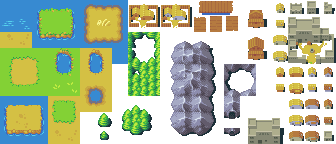
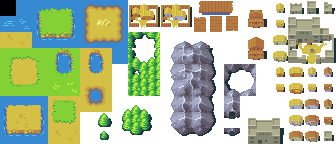
Add black tiles outside the map

Changed region(s): [[0.0, 0.0, 0.0595, 0.1111]]

diff --git a/src/map/Map.cpp b/src/map/Map.cpp
@@ -1,3 +1,5 @@
+#include <cstdio>
+#include "Interrupts.h"
 #include "Map.h"
 #include "render/TileRenderer.h"
 #include "Graphics.h"
@@ -37,58 +39,41 @@ void MAP::render(WalrusRPG::Camera &camera, unsigned dt)
     // By Eiyeron : I assumed that the camera's position is the top left pixel.
     // Margins moves the rendered map if we go outside of the bounds (specially on the
     // left or on the top).
-    signed offset_x = camera.get_x() % t_width * -1;
-    signed offset_y = camera.get_y() % t_height * -1;
-    signed start_x = camera.get_x() / t_width;
-    signed start_y = camera.get_y() / t_height;
-    signed end_x = start_x + 320 / t_width + 2; // Why 2? I don't freaking know.
-    signed end_y = start_y + 240 / t_height + 1;
-
-    // Bound-checking code. To avoid reading outside of the map.
-    // The offset edition allows the map to be correctly moved to the right to make up for
-    // the lack of renderable tiles.
-    if (start_x < 0)
-    {
-        offset_x -= start_x * t_width;
-        start_x = 0;
-    }
-
-    if (start_y < 0)
-    {
-        offset_y -= start_y * t_height;
-        start_y = 0;
-    }
-    // warning fix. Even if end_x/y is negative, it should be higher than width/height.
-    if ((unsigned) end_x > this->width)
-        end_x = this->width;
-    if ((unsigned) end_y > this->height)
-        end_y = this->height;
+    signed offset_x = camera.get_x() % t_width * -1 - (camera.get_x() < 0) * t_width;
+    signed offset_y = camera.get_y() % t_height * -1 - (camera.get_y() < 0) * t_height;
+    signed start_x = camera.get_x() / t_width - (camera.get_x() < 0);
+    signed start_y = camera.get_y() / t_height - (camera.get_y() < 0);
+    Interrupts::off();
+    printf("%i %i\n", start_x, start_y);
+    Interrupts::init();
 
     // pre-calculating variables to speed up loop condition check
-    signed delta_x = end_x - start_x;
-    signed delta_y = end_y - start_y;
-
-    // Creating a region clip. Why does it smell like SDL?
-    /*WalrusRPG::Graphics::Rect_t sprite;
-    sprite.y = 0;
-    sprite.w = 24;
-    sprite.h = 24;*/
+    signed delta_x = 320 / t_width + 1;
+    signed delta_y = 240 / t_height + 1;
 
     // rendering part.
     for (signed j = 0; j < delta_y; j++)
     {
         for (signed i = 0; i < delta_x; i++)
         {
-            unsigned index = (start_x + i) + (start_y + j) * this->width;
-            unsigned tile_over = anim.get_animation_frame(this->layer0[index]);
-            if (tile_over != 0)
-                renderer->render(tile_over,
-                                 Rect(offset_x + i * t_width, offset_y + j * t_height));
+            int index, tile_over;
+            index = (start_x + i) + (start_y + j) * this->width;
+            if (in_range(start_x + i, 0, (signed) width) &&
+                in_range(start_y + j, 0, (signed) height))
+                tile_over = anim.get_animation_frame(this->layer0[index]);
+            else
+                tile_over = 0;
+            renderer->render(tile_over,
+                             Rect(offset_x + i * t_width, offset_y + j * t_height));
 
             // layer1 : Over-layer
             if (this->layer1 == nullptr)
                 continue;
-            tile_over = anim.get_animation_frame(this->layer1[index]);
+            if (in_range(start_x + i, 0, (signed) width) &&
+                in_range(start_y + j, 0, (signed) height))
+                tile_over = anim.get_animation_frame(this->layer1[index]);
+            else
+                tile_over = 0;
             if (tile_over != 0)
                 renderer->render(anim.get_animation_frame(tile_over),
                                  Rect(offset_x + i * t_width, offset_y + j * t_height));
@@ -96,24 +81,24 @@ void MAP::render(WalrusRPG::Camera &camera, unsigned dt)
     }
 }
 
-bool MAP::is_tile_solid(unsigned x, unsigned y) const
+bool MAP::is_tile_solid(int x, int y) const
 {
     if (x >= width || y >= height)
         return true;
     return this->layer0[y * width + x] != 0;
 }
 
-bool MAP::is_pixel_solid(unsigned x, unsigned y) const
+bool MAP::is_pixel_solid(int x, int y) const
 {
     return is_tile_solid(x / renderer->get_tile_width(), y / renderer->get_tile_height());
 }
 
-unsigned MAP::get_width() const
+int MAP::get_width() const
 {
     return this->width;
 }
 
-unsigned MAP::get_height() const
+int MAP::get_height() const
 {
     return this->width;
 }

diff --git a/src/map/Map.h b/src/map/Map.h
@@ -16,8 +16,8 @@ namespace WalrusRPG
       protected:
         // <Tiles> data;
         // <Tileset> tileset;
-        unsigned int width;
-        unsigned int height;
+        int width;
+        int height;
         uint16_t *layer0;
         uint16_t *layer1;
         TileRenderer *renderer;
@@ -27,10 +27,10 @@ namespace WalrusRPG
         ~Map();
         void render(Camera &camera, unsigned dt);
         void update(unsigned dt);
-        bool is_tile_solid(unsigned x, unsigned y) const;
-        bool is_pixel_solid(unsigned x, unsigned y) const;
-        unsigned get_width() const;
-        unsigned get_height() const;
+        bool is_tile_solid(int x, int y) const;
+        bool is_pixel_solid(int x, int y) const;
+        int get_width() const;
+        int get_height() const;
     };
 }
 

diff --git a/src/map/StateMap.cpp b/src/map/StateMap.cpp
@@ -1,6 +1,5 @@
 #include "StateMap.h"
 #include "Graphics.h"
-#include "render/Pixel.h"
 #include "render/Text.h"
 
 #define STATEMAP WalrusRPG::States::StateMap
@@ -32,7 +31,6 @@ void STATEMAP::update(unsigned dt)
 
 void STATEMAP::render(unsigned dt)
 {
-    Pixel pix(Graphics::Green);
     map.render(camera, dt);
 
     print_debug_camera_data(camera);
